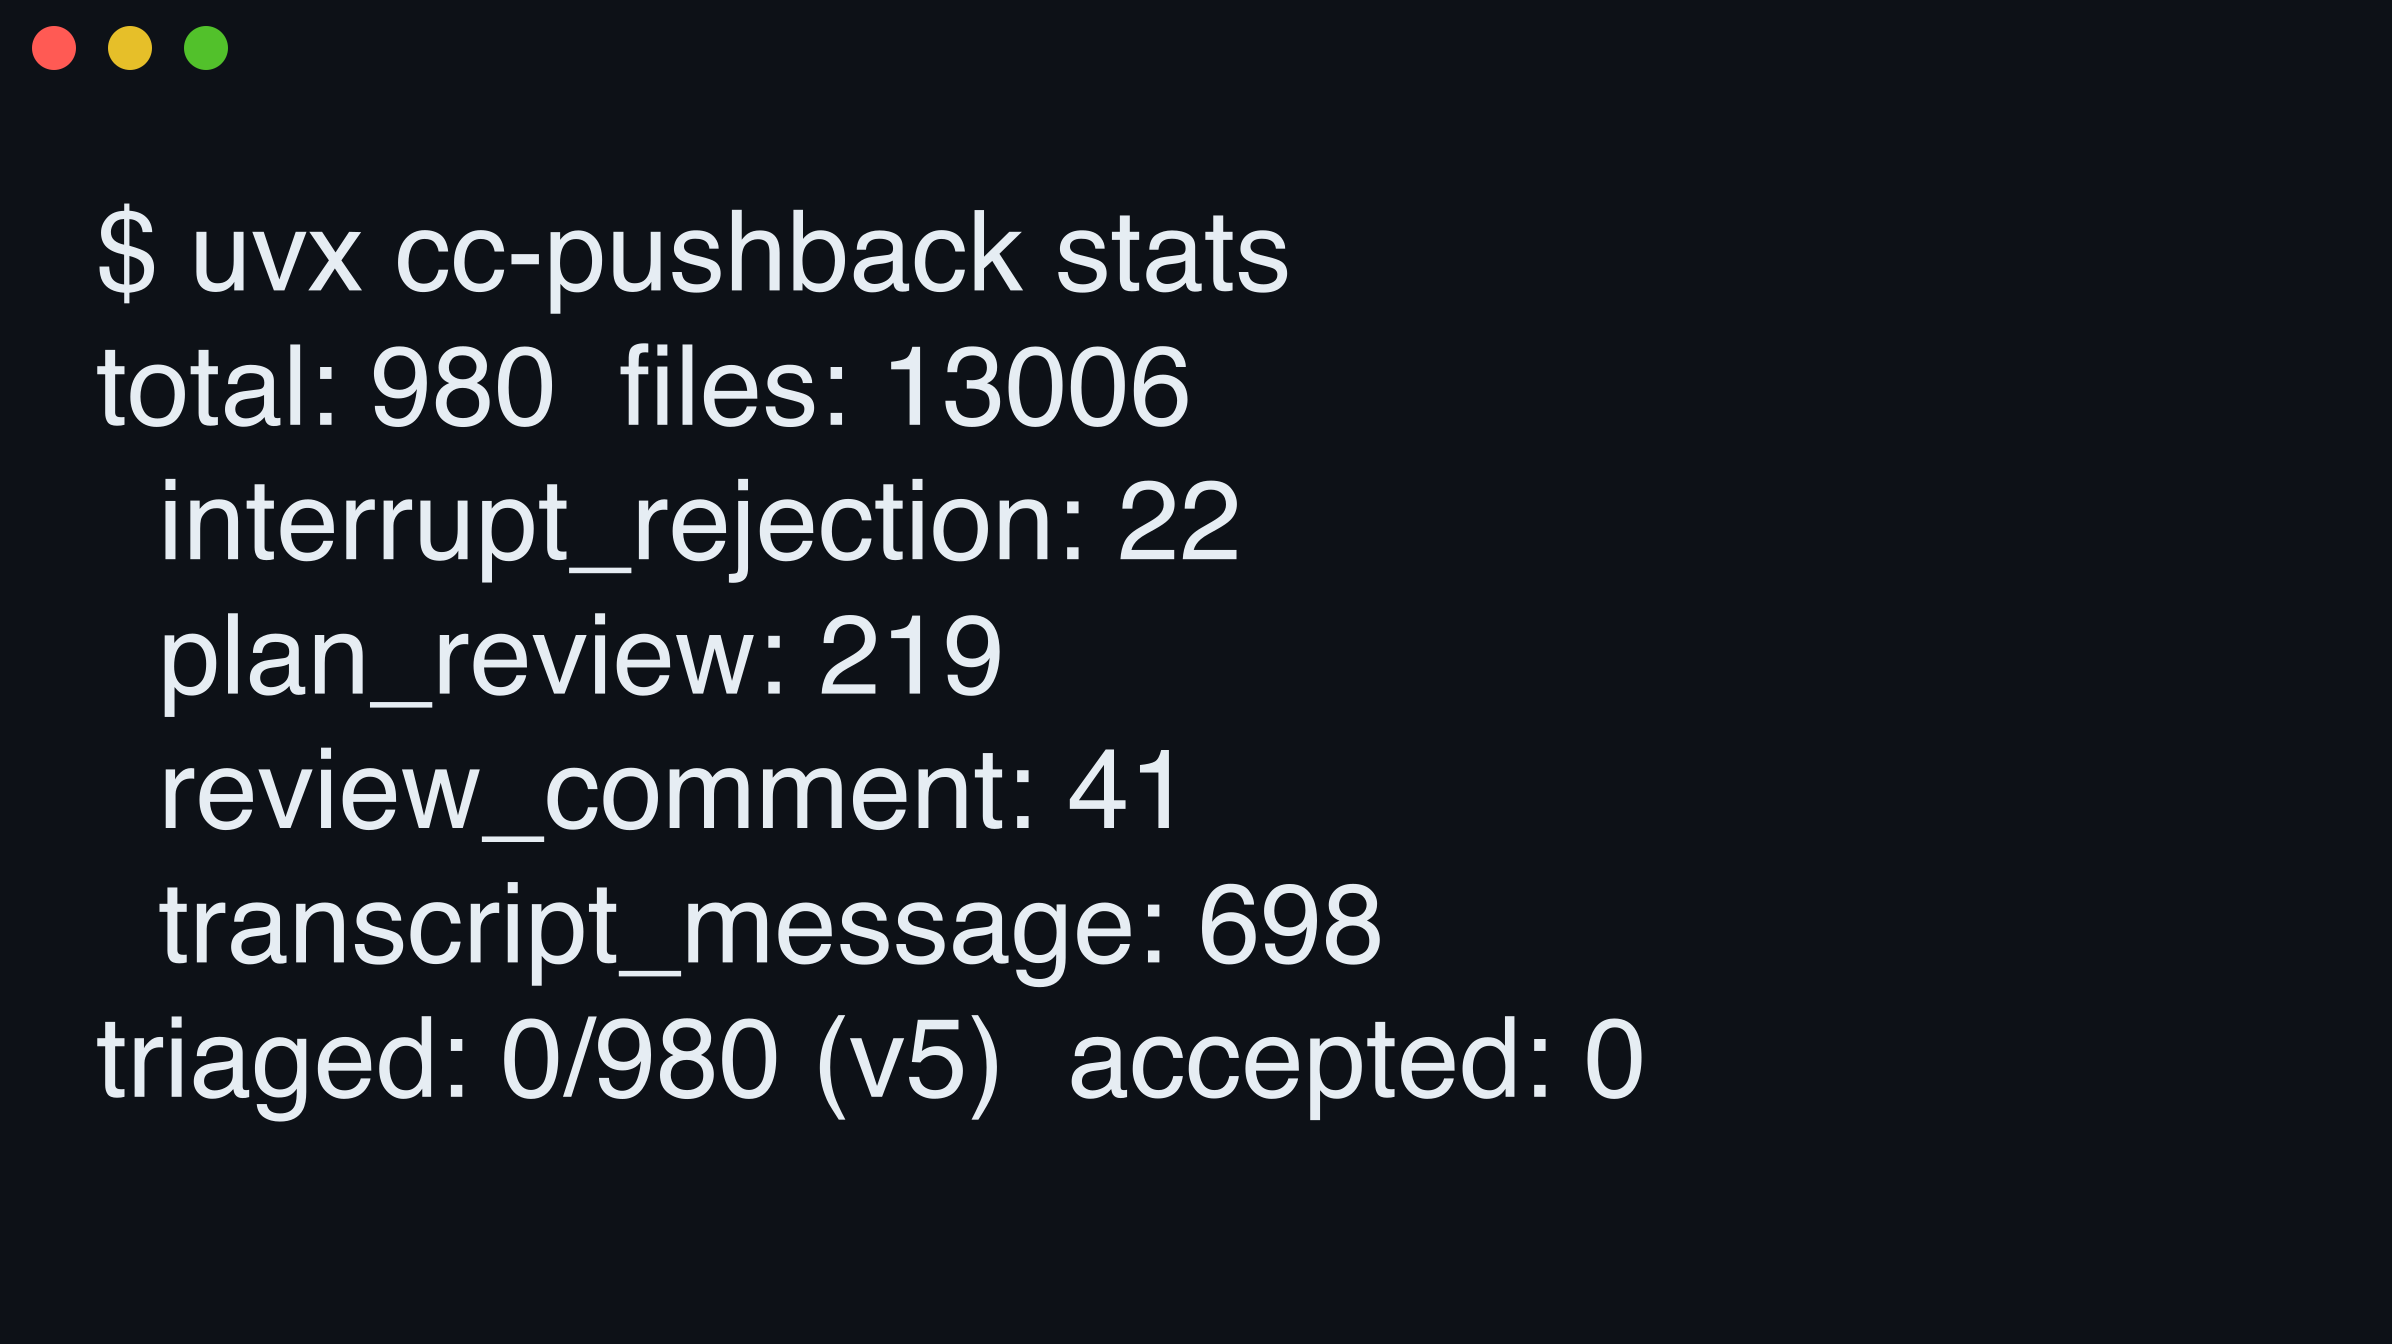
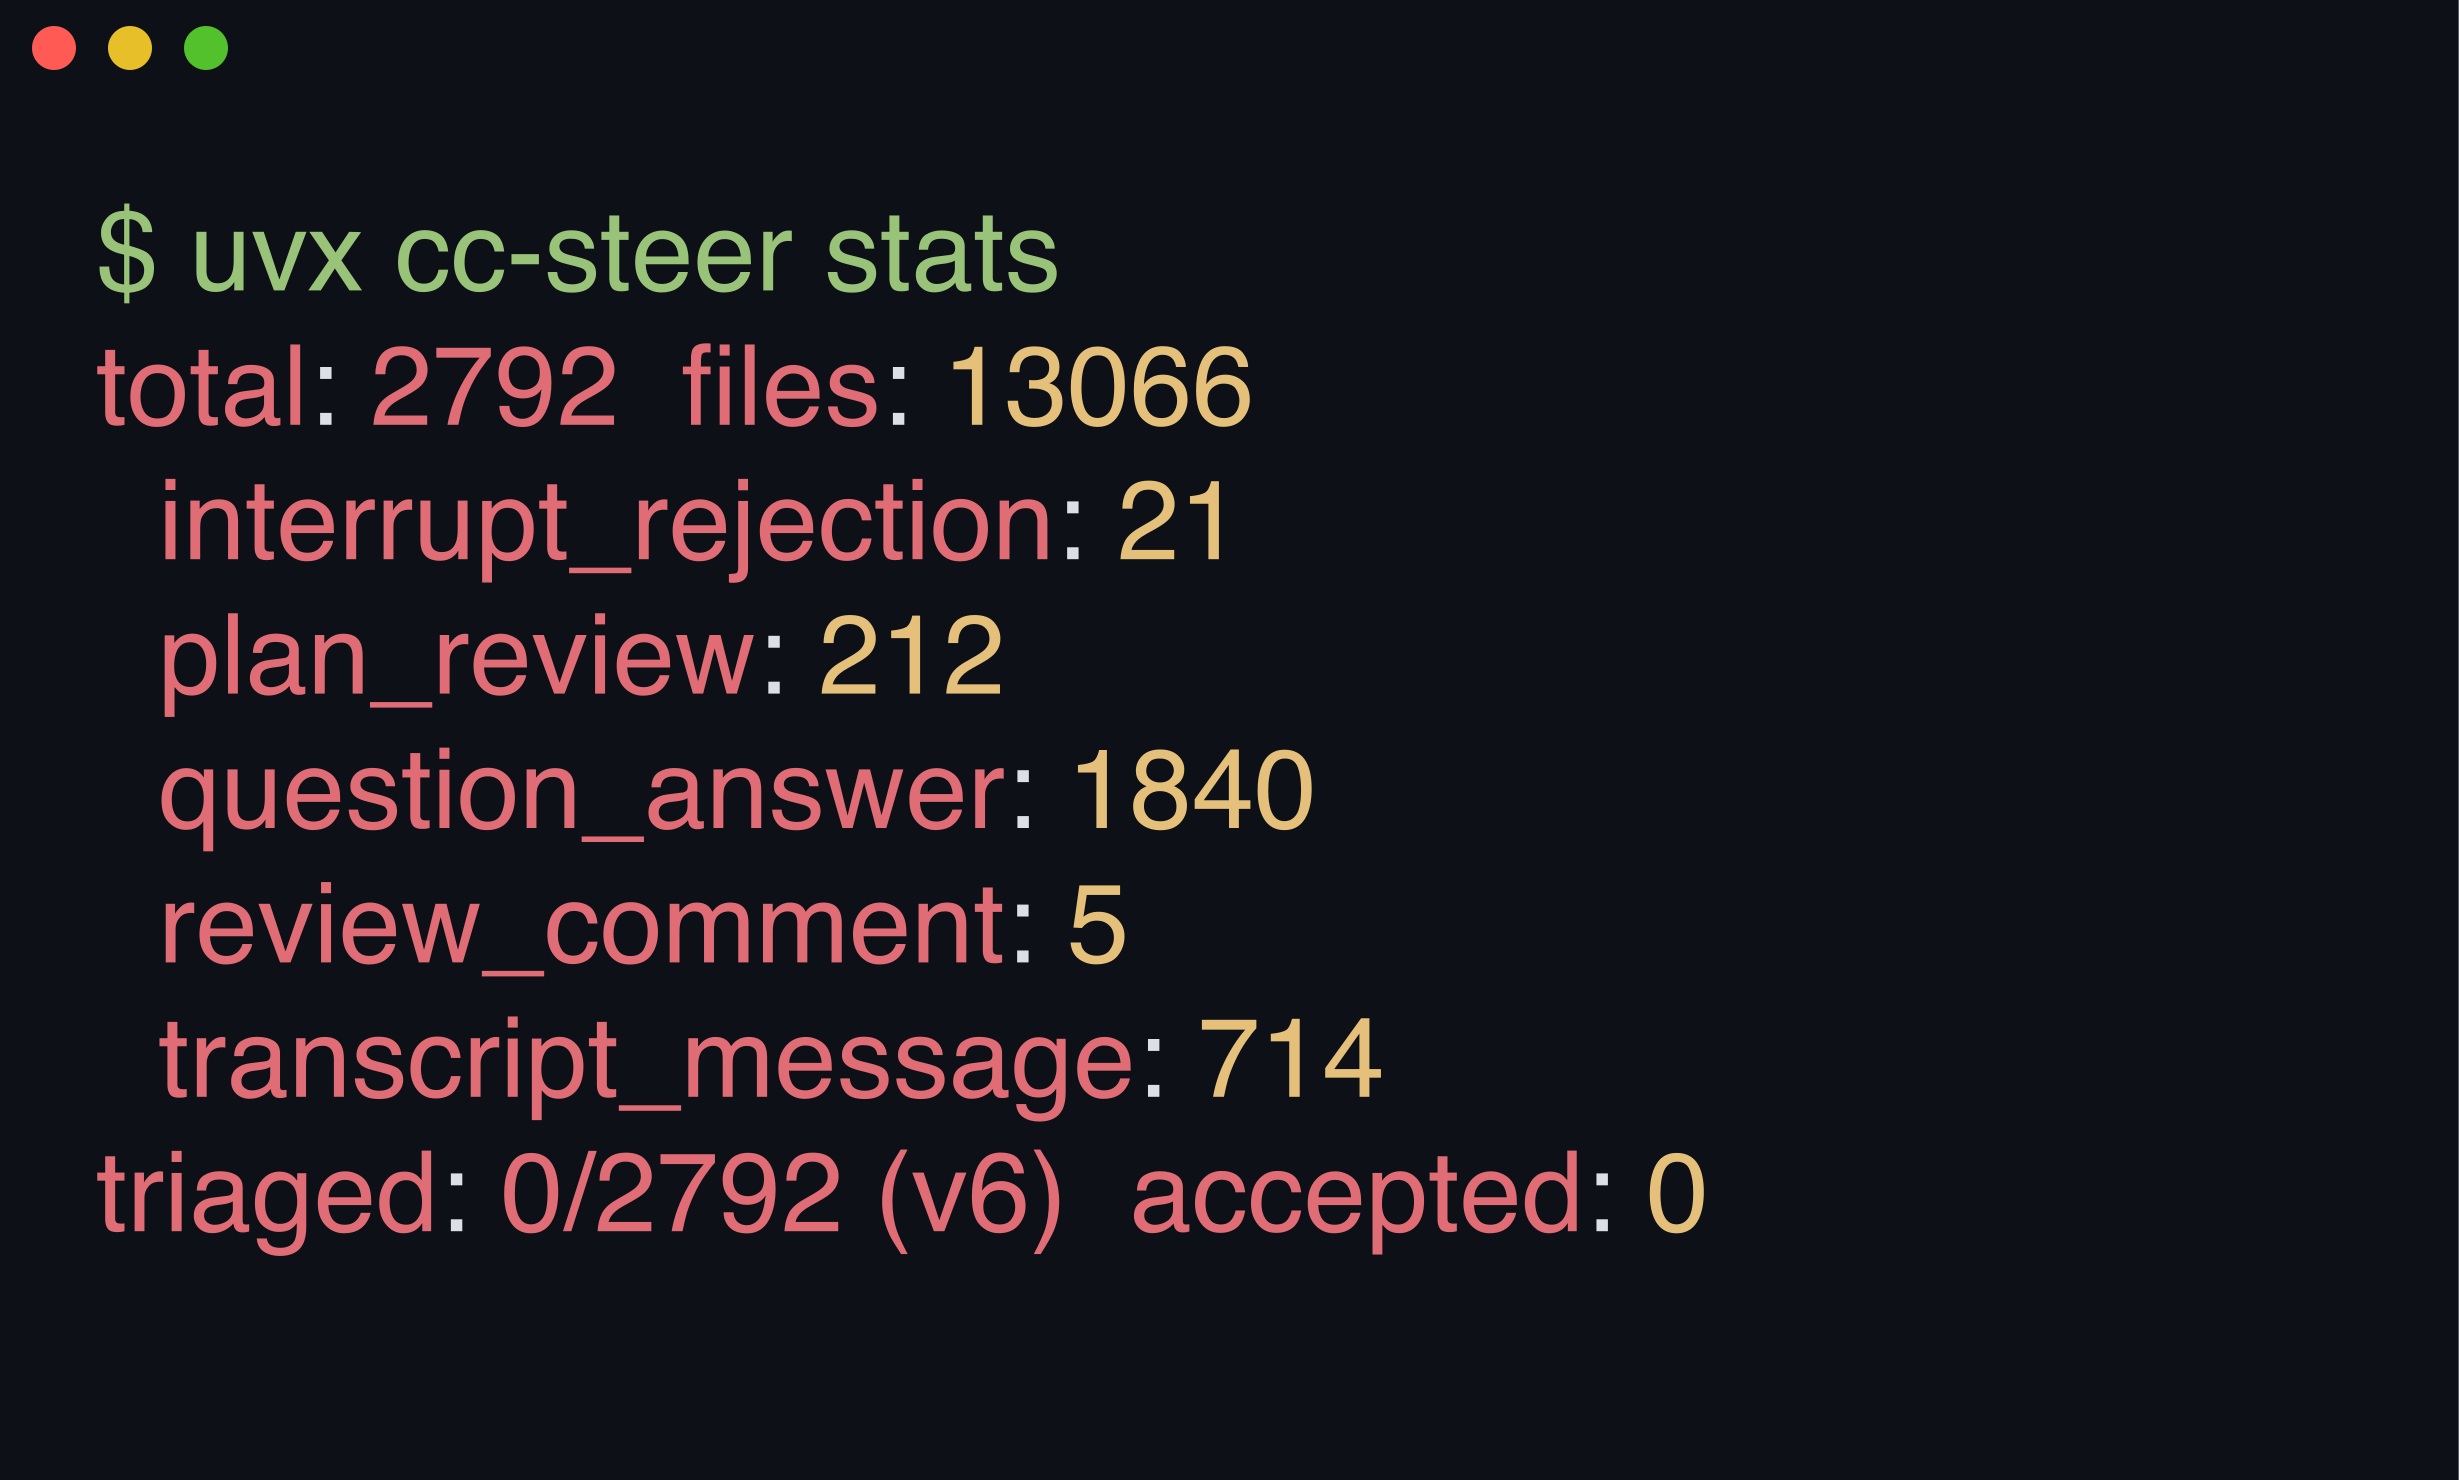
docs: colorize demo screenshot via bat, refresh stats + README numbers
demo.sh captures plain click output, so freeze rendered a grayscale PNG
(still branded cc-pushback). Colorize the capture with bat -l yaml before
freeze, regenerate from a fresh scan (2,792 events, five source kinds),
and sync the README's alt text and split numbers; slop-cop now reports
zero violations.

Changed region(s): [[0.0309, 0.125, 0.7115, 0.8438], [0.0, 0.0312, 0.0928, 0.0625]]

diff --git a/README.md b/README.md
@@ -4,7 +4,7 @@
 
 [![CI](https://github.com/yasyf/cc-steer/actions/workflows/ci.yml/badge.svg)](https://github.com/yasyf/cc-steer/actions/workflows/ci.yml)
 [![PyPI](https://img.shields.io/pypi/v/cc-steer.svg)](https://pypi.org/project/cc-steer/)
-[![License: PolyForm Noncommercial](https://img.shields.io/badge/license-PolyForm--Noncommercial--1.0.0-blue)](https://github.com/yasyf/cc-steer/blob/main/LICENSE)
+[![PolyForm Noncommercial license](https://img.shields.io/badge/license-PolyForm--Noncommercial--1.0.0-blue)](https://github.com/yasyf/cc-steer/blob/main/LICENSE)
 
 ## Get started
 
@@ -12,9 +12,9 @@
 uvx cc-steer scan
 ```
 
-One pass over `~/.claude/projects` fills `~/.cc-steer/feedback.db` with every correction you typed, every plan you rejected, and every inline review comment — conversational context included. `stats` shows what landed:
+One pass over `~/.claude/projects` fills `~/.cc-steer/feedback.db` with every correction you typed, every plan you rejected, every question you answered, and every inline review comment, conversational context included. `stats` shows what landed:
 
-<img src="https://github.com/yasyf/cc-steer/raw/main/docs/assets/demo.png" alt="Terminal running 'uvx cc-steer stats' — 980 steering events counted across four source kinds" width="700">
+<img src="https://github.com/yasyf/cc-steer/raw/main/docs/assets/demo.png" alt="Terminal running 'uvx cc-steer stats' — 2,792 steering events counted across five source kinds" width="700">
 
 Driving with an agent? Paste this:
 
@@ -38,17 +38,17 @@ uvx cc-steer refine
 uvx cc-steer enrich
 ```
 
-`uvx cc-steer pairs` prints the deliverable: training pairs distilled from your own steering, each carrying the conversational window and code evidence behind it.
+`uvx cc-steer pairs` prints the deliverable. Each training pair is distilled from your own steering and carries the conversational window and code evidence behind it.
 
 ### See how you actually steer, across every project
 
-Your taste is mostly tacit — you notice a rule when it's violated. The corpus makes it legible:
+Your taste is mostly tacit, and you notice a rule only when it's violated. The corpus makes it legible:
 
 ```bash
 uvx cc-steer list --source plan_review
 ```
 
-On my machine the split is 698 mid-session corrections, 219 rejected plans, 41 review comments, and 22 interrupts. Another machine's history folds in too: mirror it with rsync and point `scan --transcripts` at it (repeatable, so several mirrors fold into one scan).
+On my machine the split is 1,840 answered questions, 714 mid-session corrections, 212 rejected plans, 21 interrupts, and 5 review comments. Another machine's history folds in too. Mirror it with rsync and point `scan --transcripts` at it; scans are repeatable, so several mirrors fold into one corpus.
 
 ### Push a private SFT/DPO/KTO dataset to your HuggingFace namespace
 
@@ -69,11 +69,11 @@ Four configs land as per-split parquet in a private `<hf-user>/cc-steer-traces`,
 
 ## More in the docs
 
-- **Incremental scanning** — content digests and one-transaction commits make re-scans cheap and interrupt-safe — [scan](https://yasyf.github.io/cc-steer/reference/cli/scan.html)
-- **Judge, audit, eval** — prompt-versioned triage, a seeded audit sample, and mechanical metrics with no LLM calls — [triage](https://yasyf.github.io/cc-steer/reference/cli/triage.html)
-- **Pair dashboard** — browse refined pairs and their full lineage in a local web UI — [view-samples](https://yasyf.github.io/cc-steer/reference/cli/view_samples.html)
-- **Python API** — drive the scanner and the feedback store from your own code — [reference](https://yasyf.github.io/cc-steer/reference/)
+- [Incremental scanning](https://yasyf.github.io/cc-steer/reference/cli/scan.html) explains how content digests and one-transaction commits keep re-scans cheap and interrupt-safe.
+- [Triage, audit, and eval](https://yasyf.github.io/cc-steer/reference/cli/triage.html) cover prompt-versioned judging, a seeded audit sample, and mechanical metrics that need no LLM calls.
+- [view-samples](https://yasyf.github.io/cc-steer/reference/cli/view_samples.html) serves a local dashboard for browsing refined pairs and their full lineage.
+- [The Python API](https://yasyf.github.io/cc-steer/reference/) drives the scanner and the feedback store from your own code.
 
-Status: alpha — the pipeline runs end to end; the judge prompt still iterates (v6 today).
+cc-steer is alpha. The pipeline runs end to end, and the judge prompt still iterates (v6 today).
 
 Read the [docs](https://yasyf.github.io/cc-steer/) for the full guide. Licensed under [PolyForm Noncommercial 1.0.0](LICENSE).